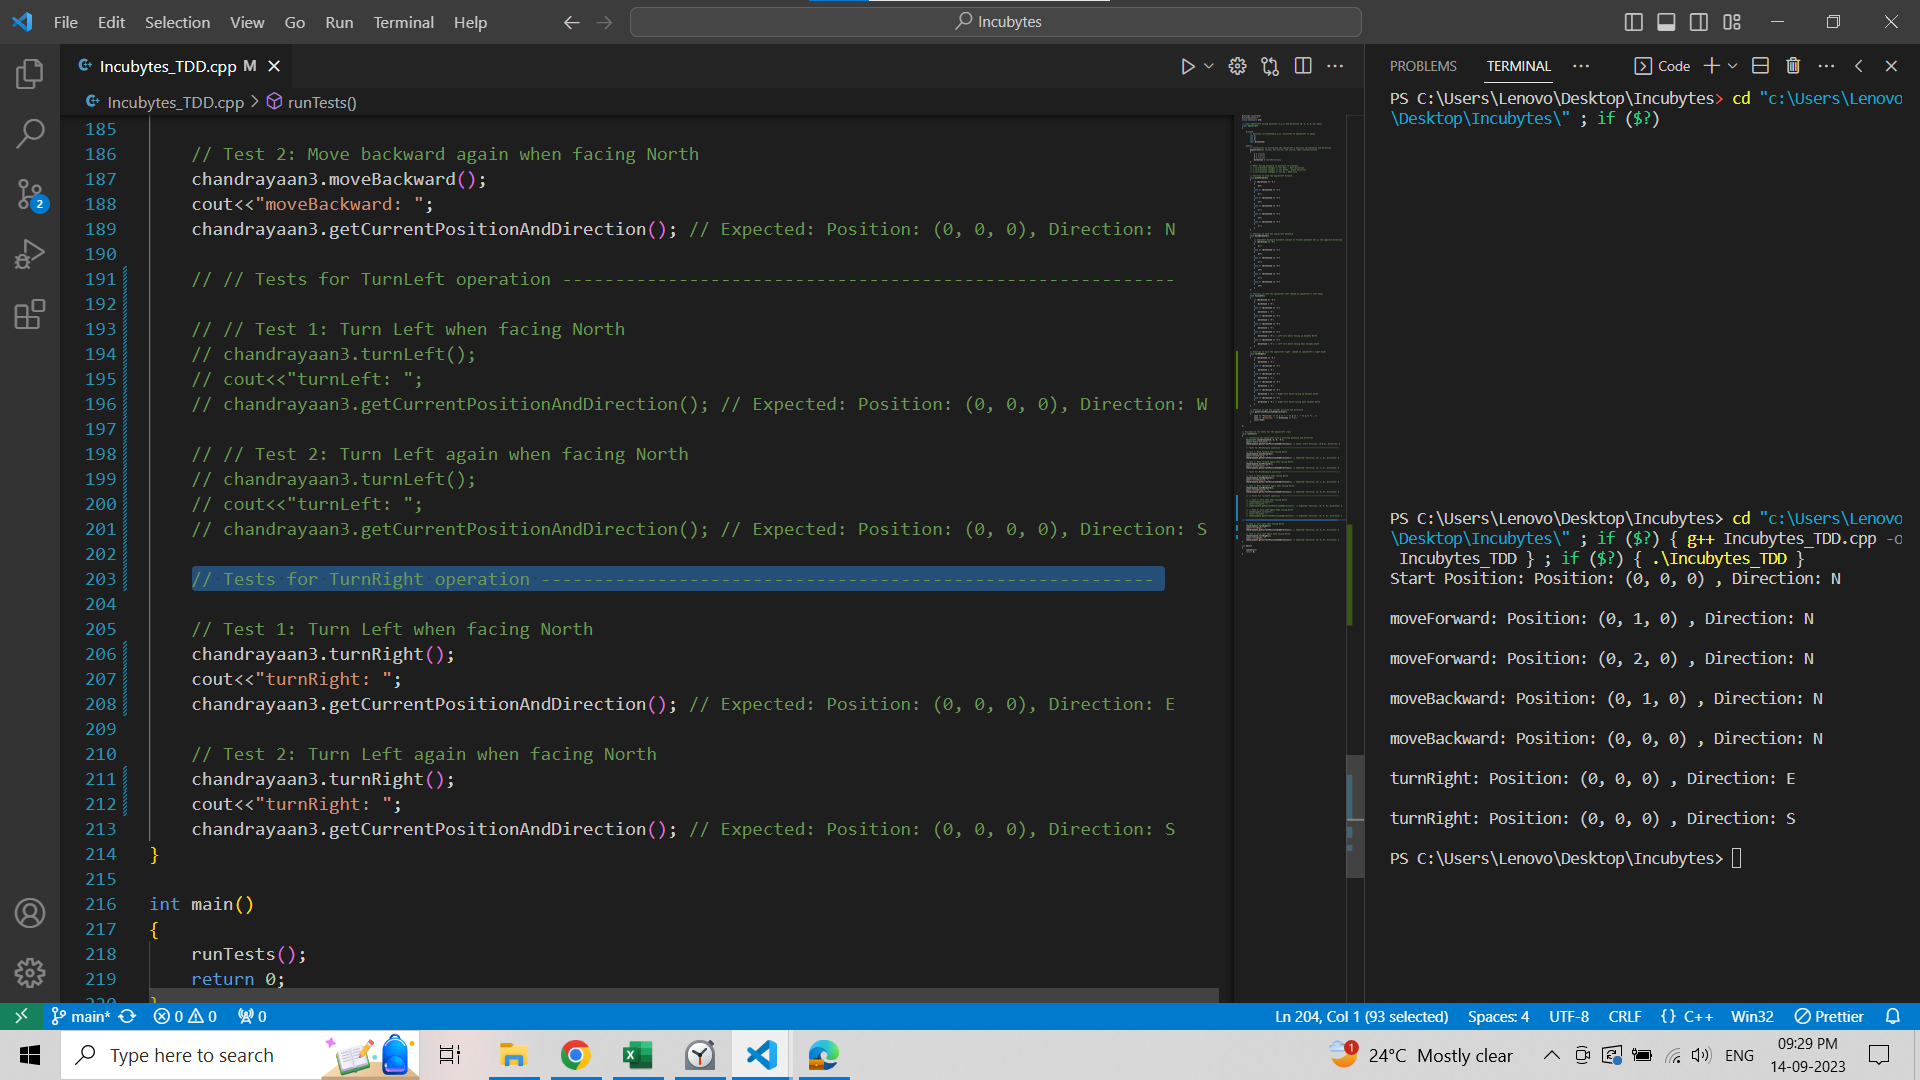
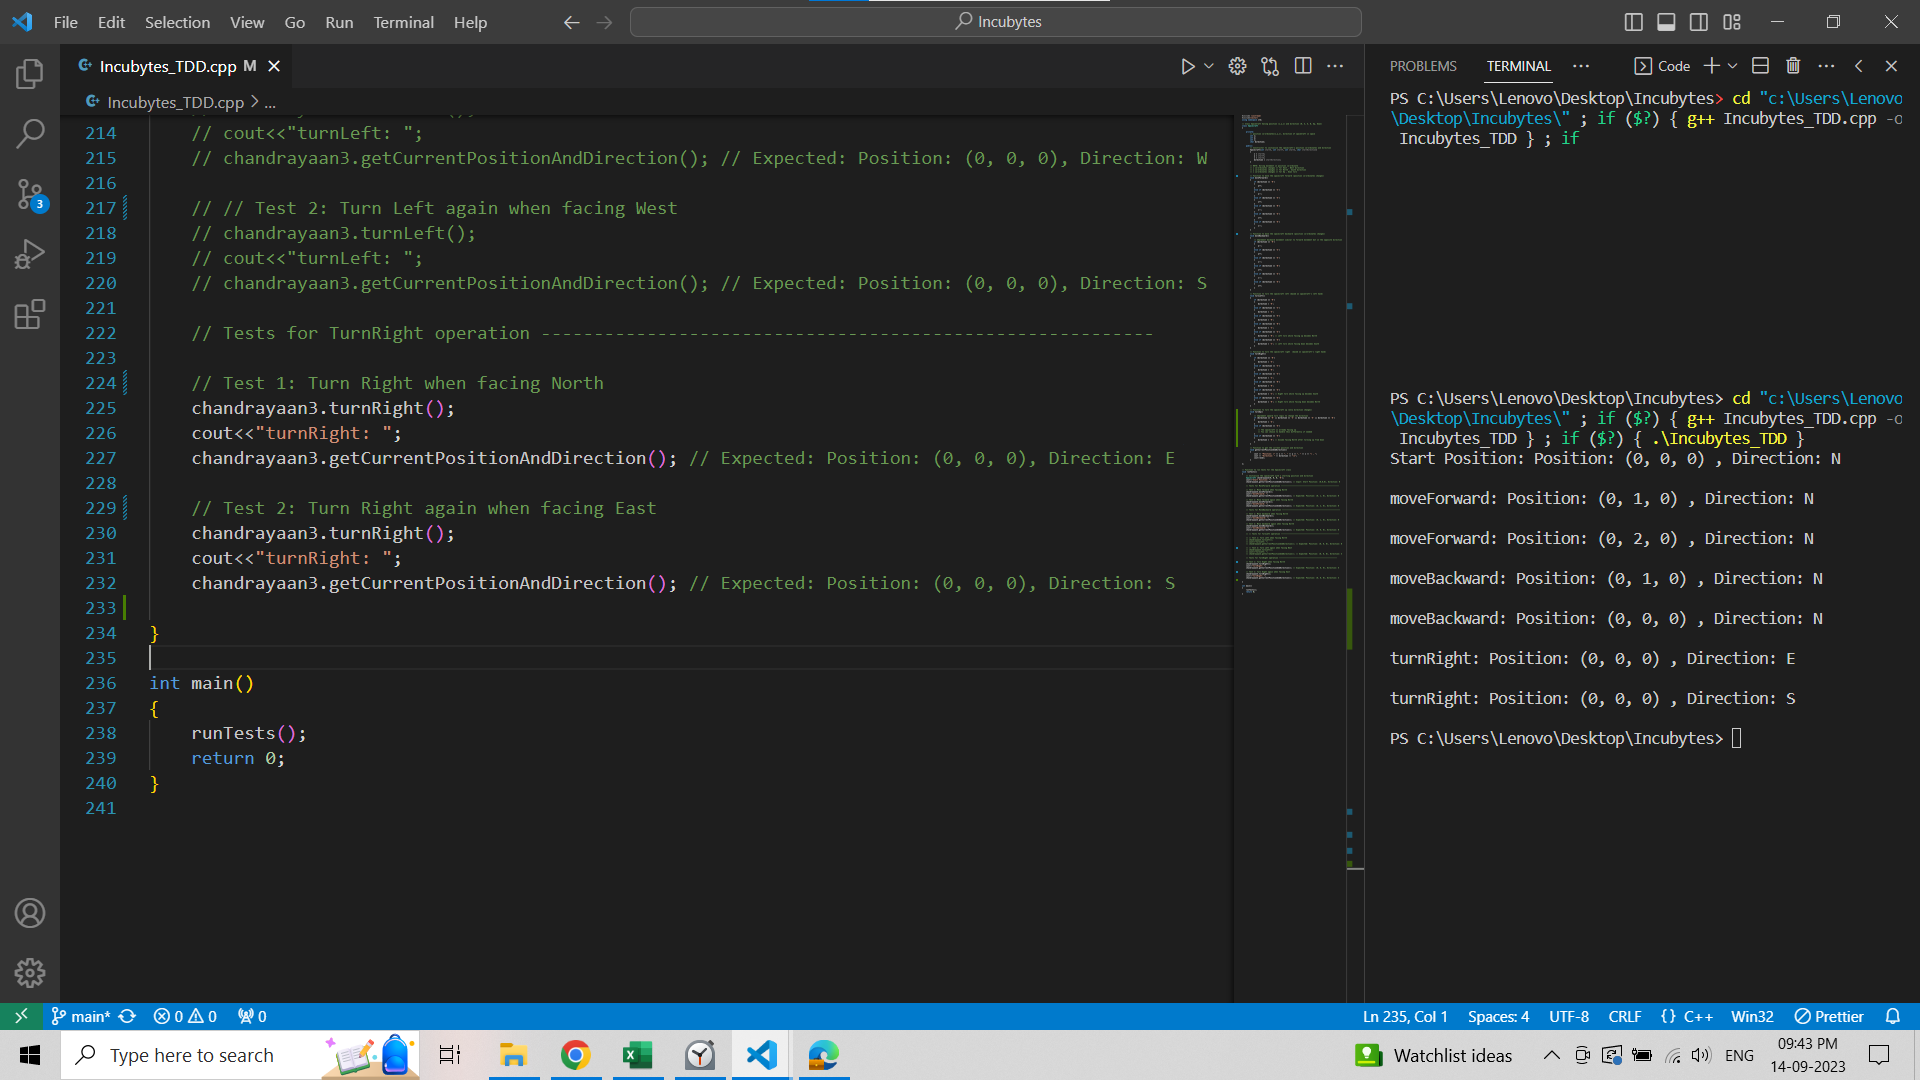
added unit test for turnUp function

diff --git a/Incubytes_TDD.cpp b/Incubytes_TDD.cpp
@@ -28,7 +28,7 @@ class Spacecraft
         // y co-ordinates changes => for North , South direction
         // z co-ordinates changes => for Up , Down turn
 
-        // Function to move the spacecraft forward
+        // Function to move the spacecraft forward (position co-ordinates changes)
         void moveForward()
         {
             if (direction == 'N')
@@ -57,7 +57,7 @@ class Spacecraft
             }
         }
 
-        // Function to move the spacecraft backward
+        // Function to move the spacecraft backward (position co-ordinates changes)
         void moveBackward()
         {
             // Implement backward movement similar to forward movement but in the opposite direction
@@ -145,6 +145,25 @@ class Spacecraft
             }
         }
 
+        // Function to turn the spacecraft up (only direction changes)
+        void turnUp()
+        {
+            // Implement upward turn logic to change the direction
+            if (direction == 'N' || direction == 'S' || direction == 'E' || direction == 'W')
+            {
+                direction = 'U';
+            }
+            else if (direction == 'U')
+            {
+                // The spacecraft is already facing up
+                // You can choose to handle this differently if needed
+            }
+            else if (direction == 'D')
+            {
+                direction = 'N'; // Assume facing North after turning up from down
+            }
+        }
+
         // Function to get the current position and direction
         void getCurrentPositionAndDirection()
         {
@@ -195,22 +214,30 @@ void runTests()
     // cout<<"turnLeft: ";
     // chandrayaan3.getCurrentPositionAndDirection(); // Expected: Position: (0, 0, 0), Direction: W
 
-    // // Test 2: Turn Left again when facing North 
+    // // Test 2: Turn Left again when facing West 
     // chandrayaan3.turnLeft();
     // cout<<"turnLeft: ";
     // chandrayaan3.getCurrentPositionAndDirection(); // Expected: Position: (0, 0, 0), Direction: S
     
     // Tests for TurnRight operation ----------------------------------------------------------
 
-    // Test 1: Turn Left when facing North
-    chandrayaan3.turnRight();
-    cout<<"turnRight: ";
-    chandrayaan3.getCurrentPositionAndDirection(); // Expected: Position: (0, 0, 0), Direction: E
+    // // Test 1: Turn Right when facing North
+    // chandrayaan3.turnRight();
+    // cout<<"turnRight: ";
+    // chandrayaan3.getCurrentPositionAndDirection(); // Expected: Position: (0, 0, 0), Direction: E
 
-    // Test 2: Turn Left again when facing North 
-    chandrayaan3.turnRight();
-    cout<<"turnRight: ";
-    chandrayaan3.getCurrentPositionAndDirection(); // Expected: Position: (0, 0, 0), Direction: S
+    // // Test 2: Turn Right again when facing East 
+    // chandrayaan3.turnRight();
+    // cout<<"turnRight: ";
+    // chandrayaan3.getCurrentPositionAndDirection(); // Expected: Position: (0, 0, 0), Direction: S
+    
+    // Tests for TurnUp operation ----------------------------------------------------------
+
+    // Test 1: Turn Up when facing North
+    chandrayaan3.turnUp();
+    cout<<"turnUp: ";
+    chandrayaan3.getCurrentPositionAndDirection(); // Expected: Position: (0, 0, 0), Direction: U
+
 }
 
 int main()
